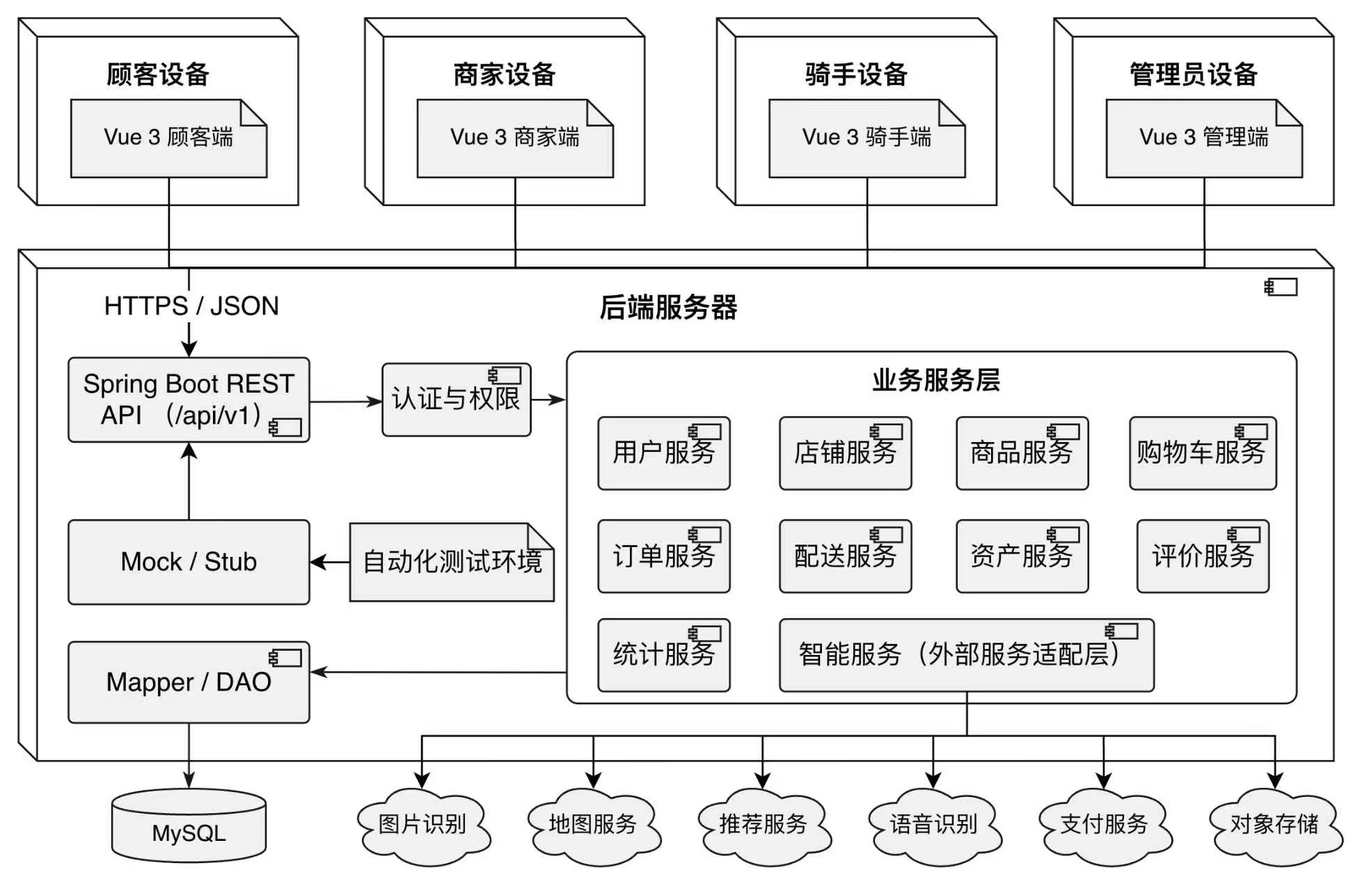
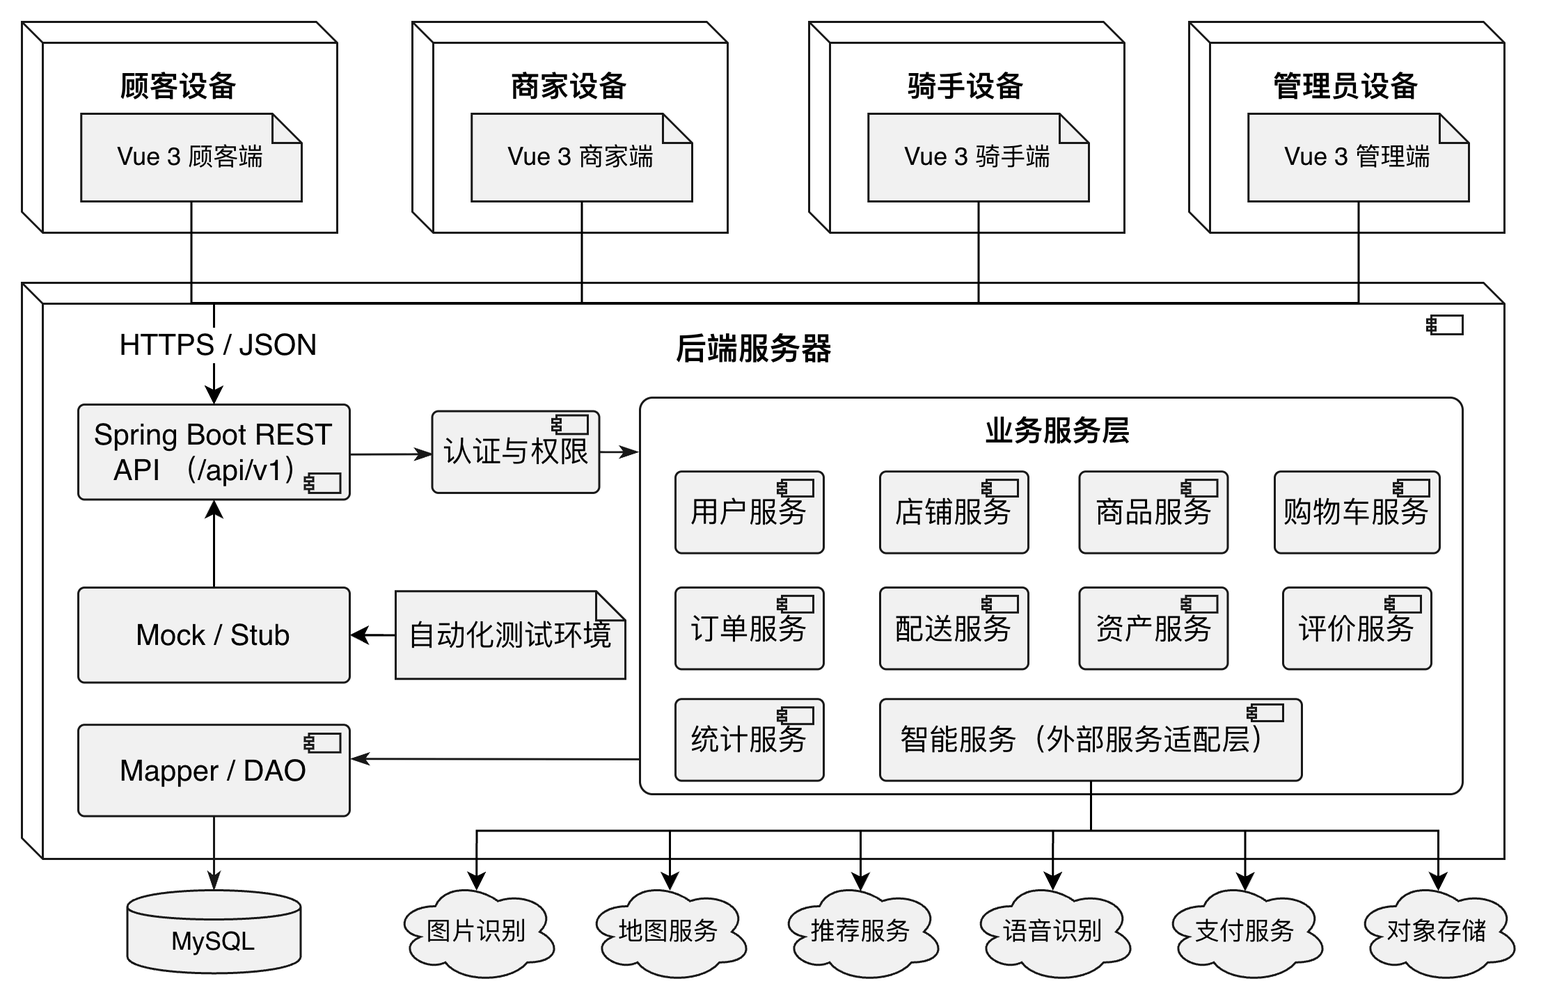
修改srs2.0主要是针对一些图片进行优化，在zzy的基础上修整了一些排版

diff --git a/source/body/srs/functions/customer.tex b/source/body/srs/functions/customer.tex
@@ -28,7 +28,7 @@
 \begin{srsusecase}{4.3}{管理购物车}{顾客}{高}{uc:cart}
 \ucrow{描述}{顾客维护当前店铺的待结算商品}
 \ucrow{前置条件}{顾客已登录且商品当前可售}
-\ucrow{基本流程}{1）将商品加入购物车\newline 2）修改商品数量或删除商品\newline 3）选择待结算商品\newline 4）查看估算小计\newline 5）需要时清空购物车}
+\ucrow{基本流程}{1）将商品加入购物车，修改商品数量或删除商品\newline 2）选择待结算商品\newline 3）查看估算小计\newline 4）需要时清空购物车}
 \ucrow{结束状况}{购物车保存最新商品和数量}
 \ucrow{可选流程}{切换店铺加购时先确认是否清空原店铺购物车}
 \ucrow{异常流程}{商品下架、售罄、超过库存或限购数量时拒绝加购或修改}
@@ -53,7 +53,7 @@
 \ucrow{基本流程}{1）进入订单支付页面\newline 2）选择模拟支付或钱包支付\newline 3）系统校验订单金额、支付状态和余额\newline 4）记录支付结果并更新订单状态}
 \ucrow{结束状况}{订单进入待商家接单状态}
 \ucrow{可选流程}{钱包支付时扣减钱包余额并记录流水}
-\ucrow{异常流程}{余额不足、重复支付、订单已取消或订单状态不允许支付时拒绝请求}
+\ucrow{异常流程}{余额不足、重复支付、订单已取消或订单状态禁付时拒绝请求}
 \ucrow{备注}{重复支付请求不得产生重复扣款}
 \end{srsusecase}
 
@@ -82,17 +82,17 @@
 \begin{srsusecase}{6.1}{提交订单评价}{顾客}{中}{uc:review-consumption}
 \ucrow{描述}{顾客对已完成的本人订单提交评价}
 \ucrow{前置条件}{订单属于当前顾客、状态为已完成且尚未评价}
-\ucrow{基本流程}{1）进入订单评价入口\newline 2）填写 1--5 分评分和评价文字\newline 3）需要时上传评价图片\newline 4）提交评价}
+\ucrow{基本流程}{1）进入订单评价入口\newline 2）填写 1--5 分评分和评价文字，需要时上传评价图片\newline 3）提交评价}
 \ucrow{结束状况}{订单生成一条有效顾客评价}
 \ucrow{可选流程}{最多上传 3 张符合要求的图片}
-\ucrow{异常流程}{订单未完成、非本人订单、重复评价、评分越界或图片不符合要求时拒绝提交}
+\ucrow{异常流程}{订单未完成、非本人订单、评价不符合要求时拒绝提交}
 \ucrow{备注}{每个订单最多一条有效顾客评价}
 \end{srsusecase}
 
 \begin{srsusecase}{6.2}{查看消费分析}{顾客}{中}{uc:consumption-analysis}
 \ucrow{描述}{顾客查看本人历史消费统计}
 \ucrow{前置条件}{顾客已登录}
-\ucrow{基本流程}{1）进入个人消费分析页面\newline 2）选择月份或年份\newline 3）系统统计已完成订单\newline 4）显示消费金额、订单次数、店铺和品类等结果}
+\ucrow{基本流程}{1）进入个人消费分析页面\newline 2）选择月份或年份\newline 3）系统统计订单，显示消费金额、订单次数、店铺和品类等}
 \ucrow{结束状况}{显示所选时间范围内的个人消费分析}
 \ucrow{可选流程}{可查看商家对本人历史评价的回复}
 \ucrow{异常流程}{查询条件不合法时提示重新选择}
@@ -103,10 +103,10 @@
 
 \begin{srsusecase}{7.1}{使用 AI 点餐}{顾客}{中}{uc:intelligent-personalized}
 \ucrow{描述}{顾客通过自然语言获取平台问答、订单查询和点餐建议}
-\ucrow{前置条件}{平台规则问答可直接使用，查询本人订单和确认加购时需要登录}
+\ucrow{前置条件}{平台规则问答可直接用，查询本人订单和确认加购时需要登录}
 \ucrow{基本流程}{1）顾客输入平台规则、订单状态或点餐需求\newline 2）系统识别用户意图\newline 3）规则问答读取审核知识，订单查询校验用户归属，点餐请求查询真实可售商品\newline 4）返回文本答复或推荐商品卡片\newline 5）顾客确认推荐后加入购物车}
 \ucrow{结束状况}{返回可理解答复或可继续操作的商品推荐结果}
-\ucrow{可选流程}{可使用图片识菜或语音输入，识别结果由顾客确认后再进入受控搜索}
+\ucrow{可选流程}{使用图片识菜或语音输入，识别结果由顾客确认后再进入搜索}
 \ucrow{异常流程}{AI 超时、输出无法解析、无候选商品或识别失败时提示用户并降级到普通搜索}
 \ucrow{备注}{AI 不直接支付、取消订单、修改库存或调整用户资产}
 \end{srsusecase}
@@ -118,7 +118,7 @@
 \ucrow{结束状况}{个人权益余额和流水更新完成}
 \ucrow{可选流程}{订单取消时生成反向流水恢复相应权益}
 \ucrow{异常流程}{余额不足、积分不足、优惠券过期或已使用、重复核销或并发冲突时拒绝操作}
-\ucrow{备注}{每单最多使用一张优惠券，100 积分抵 1 元且不超过券后金额的 20\%}
+\ucrow{备注}{每单限用一张优惠券；100积分抵1元，折扣上限为券后金额的20\%}
 \end{srsusecase}
 
 \begin{srsusecase}{7.3}{管理个性化偏好}{顾客}{中}{uc:preference}

diff --git a/source/body/srs/02_goals_stakeholders_scope.tex b/source/body/srs/02_goals_stakeholders_scope.tex
@@ -6,7 +6,7 @@
 
 \begin{enumerate}
   \item 顾客、商家、骑手和管理员能够完成职责清晰的外卖交易与履约闭环。
-  \item 订单和配送任务分别按合法状态流转，关键业务动作可追踪、可复现、可测试。
+  \item 订单和配送任务分别按合法状态流转，关键业务动作可追踪、复现、测试。
   \item AI 客服能够以受控方式查询平台知识、本人订单和真实菜单，并辅助顾客完成智能点餐。
   \item 库存、订单、钱包、积分、优惠券和骑手接单等关键写操作具备权限校验、幂等保护和并发保护。
   \item 需求、接口、数据对象、自动化测试和验收结果之间具有稳定的编号和追踪关系。
@@ -14,15 +14,13 @@
 
 \subsection{涉众分析}
 
-\begin{longtable}{|L{0.14\linewidth}|L{0.18\linewidth}|L{0.28\linewidth}|L{0.30\linewidth}|}
+\begin{longtable}{|L{0.10\linewidth}|L{0.18\linewidth}|L{0.16\linewidth}|L{0.47\linewidth}|}
 \caption{涉众分析}\label{tab:stakeholders}\\ \hline
 \textbf{涉众} & \textbf{代表人物} & \textbf{主要目标} & \textbf{待解决的问题/对系统的期望} \\ \hline
-顾客 & 校园及周边消费者 & 高效、透明地完成点餐 & 快速查找合适菜品，理解优惠与应付金额，查看履约进度，处理取消、收货和评价。 \\ \hline
+顾客 & 周边消费者 & 高效、透明地完成点餐 & 查找合适菜品，了解优惠与应付金额，查看进度，处理取消、收货和评价。 \\ \hline
 商家 & 店铺经营者 & 维护店铺并稳定履约 & 控制营业状态、商品和库存，按状态处理订单，与骑手完成取餐交接。 \\ \hline
-骑手 & 配送人员 & 安全承接并完成配送 & 查看可接任务，避免重复抢单，依次完成到店、取餐、配送、送达和异常上报。 \\ \hline
+骑手 & 配送人员 & 安全承接并完成配送 & 查看可接任务，避免重复抢单，完成到店、取餐、配送、送达和异常上报。 \\ \hline
 管理员 & 平台运营人员 & 保证准入与运行秩序 & 审核商家、店铺和骑手，处理账号、评价和配送异常，查看平台统计。 \\ \hline
-验收人员 & 教师及交叉验收小组 & 根据稳定基线复现结果 & 在统一环境和初始数据下，按需求编号验证正常、异常、权限和边界场景。 \\ \hline
-项目组 & 开发与测试成员 & 持续交付可维护成果 & 明确需求边界、职责分工、验收标准和变更影响，避免实现与文档脱节。 \\ \hline
 \end{longtable}
 
 \subsection{范围}
@@ -31,7 +29,7 @@
 
 \srsfigure{figures/srs/01-system-context.png}{系统上下文图}{非 UML：系统上下文图}{fig:system-context}
 
-\begin{longtable}{|L{0.16\linewidth}|L{0.20\linewidth}|L{0.54\linewidth}|}
+\begin{longtable}{|L{0.09\linewidth}|L{0.21\linewidth}|L{0.60\linewidth}|}
 \caption{需求优先级与功能范围}\label{tab:scope}\\ \hline
 \textbf{级别} & \textbf{范围定位} & \textbf{纳入的功能} \\ \hline
 P0 & 核心基线，必须实现 & 账号、地址、店铺商品、购物车、订单、模拟支付、取消与收货；商家履约；骑手申请、接单与配送；管理员准入审核和账号治理。 \\ \hline
@@ -41,13 +39,13 @@ P2 & 可选增强，不作为基线失败条件 & 图片识菜、语音输入、
 
 \subsubsection{角色权限边界}
 
-\begin{longtable}{|L{0.14\linewidth}|L{0.28\linewidth}|L{0.28\linewidth}|L{0.20\linewidth}|}
+\begin{longtable}{|L{0.12\linewidth}|L{0.24\linewidth}|L{0.28\linewidth}|L{0.26\linewidth}|}
 \caption{角色权限边界}\label{tab:role-permission}\\ \hline
 \textbf{角色} & \textbf{可读数据} & \textbf{可写数据} & \textbf{禁止行为} \\ \hline
 顾客 & 公开店铺商品、本人订单与资产 & 本人资料、地址、购物车、订单和评价 & 访问他人订单、直接改价或跳过订单状态 \\ \hline
 商家 & 本人店铺、商品、订单和统计 & 本人店铺资源、合法的商家履约状态 & 操作非本店数据、修改顾客原评价 \\ \hline
 骑手 & 可接任务和本人活动/历史任务 & 本人任务的到店、取餐、送达与异常信息 & 查看非必要顾客资料、操作他人任务 \\ \hline
-管理员 & 审核材料、平台治理数据和汇总统计 & 审核、账号状态、评价展示状态和异常处理结果 & 直接覆盖资产流水或删除审计记录 \\ \hline
+管理员 & 审核材料、平台治理数据和汇总统计 & 审核、账号状态、评价状态和异常处理结果 & 直接覆盖资产流水或删除审计记录 \\ \hline
 \end{longtable}
 
 \subsubsection{范围外事项}

diff --git a/source/body/srs/01_introduction.tex b/source/body/srs/01_introduction.tex
@@ -1,6 +1,6 @@
 \section{简介}
 
-本需求规格说明书用于说明“轻量级外卖服务平台”的需求来源、业务边界、功能行为和质量要求，并作为需求评审、系统设计、开发测试、交叉验收和版本变更的共同依据。文档面向课程教师、验收人员、项目经理、开发人员和测试人员。
+本需求规格说明书用于说明“轻量级外卖服务平台”的需求来源、业务边界、功能行为和质量要求，并作为需求评审、系统设计、开发测试、交叉验收和版本变更的依据。文档面向课程教师、验收人员、项目经理、开发人员和测试人员。
 
 \subsection{背景}
 
@@ -15,10 +15,6 @@
 配送任务 & 订单进入配送阶段后生成的独立履约记录，记录骑手、任务状态和关键时间。 \\ \hline
 活动任务 & 处于待接单、已接单、已取餐、配送中或异常待处理状态的配送任务。 \\ \hline
 资产流水 & 钱包、积分和优惠券因业务动作产生的不可直接覆盖的变更记录。 \\ \hline
-幂等 & 同一业务请求重复提交时，系统不产生重复扣款、扣库存、返还或状态跳转。 \\ \hline
-AI 工具调用 & AI 客服在用户授权与后端权限校验后，对菜单搜索、订单查询等受控接口的调用。 \\ \hline
-降级 & 外部 AI、地图或媒体服务不可用时，返回明确提示并切换到普通搜索、文本地址或手工操作。 \\ \hline
-REST & Representational State Transfer，本项目后端接口采用的资源化交互风格。 \\ \hline
 \end{longtable}
 
 \subsection{约束}
@@ -28,7 +24,7 @@ REST & Representational State Transfer，本项目后端接口采用的资源化
 \textbf{类别} & \textbf{约束内容} \\ \hline
 课程过程 & 需求、设计、编码、测试和验收材料应保持可追踪；需求变更须同步更新文档和测试。 \\ \hline
 技术环境 & Web 前端采用 Vue 3，后端采用 Spring Boot，持久化数据库采用 MySQL；前后端通过 REST 接口交互。 \\ \hline
-业务边界 & 系统只模拟支付与钱包结算，不接入真实微信、支付宝或银行卡清算；本期不实现复杂自动派单和骑手薪资结算。 \\ \hline
+业务边界 & 系统只模拟支付与钱包结算，不接入微信、支付宝或银行卡清算；本期不实现复杂自动派单和骑手薪资结算。 \\ \hline
 数据权限 & 所有私有资源均由后端依据认证身份、角色和资源归属进行校验，不信任客户端传入的用户身份。 \\ \hline
 外部服务 & AI、地图和对象存储通过后端适配接口接入；凭证仅保存在后端配置中，外部服务失败不得阻断核心交易。 \\ \hline
 验收环境 & 使用项目提供的演示账号和初始化数据；在浏览器能够访问前后端服务时，应能完成 P0/P1 基线场景。 \\ \hline
@@ -40,6 +36,6 @@ REST & Representational State Transfer，本项目后端接口采用的资源化
 \caption{参考资料}\label{tab:references}\\ \hline
 \textbf{资料名称} & \textbf{提供方/作者} & \textbf{用途} \\ \hline
 《软件工程综合实践》课程资料与项目任务书 & 课程组 & 确定实践范围、过程要求和验收要求。 \\ \hline
-《UML 大战需求分析》附录 1 & 张传波 & 作为本需求规格说明书的章节结构与用例描述参考。 \\ \hline
+《UML 大战需求分析》& 张传波 & 作为本需求规格说明书的章节结构与用例描述参考。 \\ \hline
 轻量级外卖服务平台公开仓库 & 项目组 & 保存对外源代码、需求、接口、测试和验收材料。 \\ \hline
 \end{longtable}

diff --git a/source/body/srs/05_functional_requirements.tex b/source/body/srs/05_functional_requirements.tex
@@ -4,16 +4,15 @@
 
 系统执行者按业务职责划分为用户、顾客、商家、骑手和管理员，用户表示使用平台公共能力的基础角色，顾客、商家、骑手和管理员是在用户基础上承担不同业务职责的具体角色，同一个自然人在通过相应审核后可以拥有多个业务角色，但每次业务操作仍按照当前角色及资源归属进行权限校验
 
-AI、地图和对象存储等外部能力作为系统依赖，在相关用例的基本流程、可选流程和异常流程中说明，不再与五类业务执行者并列组织角色章节
 
-\begin{longtable}{|L{0.16\linewidth}|L{0.26\linewidth}|L{0.48\linewidth}|}
+\begin{longtable}{|L{0.10\linewidth}|L{0.15\linewidth}|L{0.74\linewidth}|}
 \caption{系统执行者说明}\label{tab:actors}\\ \hline
 \textbf{执行者} & \textbf{执行者关系} & \textbf{主要业务职责} \\ \hline
-用户 & 基础执行者 & 注册和登录平台，维护个人资料与地址，申请业务角色并查看消息通知 \\ \hline
-顾客 & 用户的特化角色 & 选购店铺商品，管理订单、评价与消费，使用智能点餐、个人权益和个性化服务 \\ \hline
-商家 & 用户的特化角色 & 维护店铺、商品及库存，处理本店订单，回复评价并查看经营数据 \\ \hline
-骑手 & 用户的特化角色 & 管理配送工作状态，接取并完成配送任务，处理配送过程中的异常与导航需求 \\ \hline
-管理员 & 用户的特化角色 & 完成准入审核、平台治理、配送异常处置和平台数据查看 \\ \hline
+用户 & 基础执行者 & 注册和登录平台，维护个人信息，申请业务角色、查看通知 \\ \hline
+顾客 & 特化角色 & 选购商品、管理订单与评价，使用智能点餐、个性化服务 \\ \hline
+商家 & 特化角色 & 维护店铺及商品，处理订单，回复评价并查看经营数据 \\ \hline
+骑手 & 特化角色 & 管理配送状态，接取并完成任务，处理配送过程中的异常 \\ \hline
+管理员 & 特化角色 & 完成准入审核、平台治理、配送异常处置和平台数据查看 \\ \hline
 \end{longtable}
 
 \subsection{总用例}

diff --git a/source/body/srs/03_business_concept_analysis.tex b/source/body/srs/03_business_concept_analysis.tex
@@ -8,7 +8,7 @@
 
 \subsection{业务概念一览}
 
-\begin{longtable}{|L{0.20\linewidth}|L{0.25\linewidth}|L{0.45\linewidth}|}
+\begin{longtable}{|L{0.22\linewidth}|L{0.30\linewidth}|L{0.40\linewidth}|}
 \caption{业务概念一览}\label{tab:business-concepts}\\ \hline
 \textbf{概念组} & \textbf{主要业务概念} & \textbf{概念之间的关系} \\ \hline
 账号与经营主体 & 用户、角色、顾客资料、商家资料、骑手资料、店铺 & 用户可被授予一个或多个角色；商家经营店铺；骑手通过审核后承接配送任务。 \\ \hline
@@ -19,13 +19,13 @@
 
 \subsection{交易与履约业务概念}
 
-\begin{longtable}{|L{0.19\linewidth}|L{0.25\linewidth}|L{0.46\linewidth}|}
+\begin{longtable}{|L{0.19\linewidth}|L{0.24\linewidth}|L{0.48\linewidth}|}
 \caption{交易与履约核心业务对象}\label{tab:domain-objects}\\ \hline
 \textbf{对象} & \textbf{责任} & \textbf{关键约束} \\ \hline
 User / Role & 保存账号、个人资料和角色 & 同一用户可具有多个角色；禁用账号不得登录。 \\ \hline
 Store / Product & 表示店铺、分类、商品和库存 & 未通过审核或休息店铺不可接收新订单；下架或库存为零的商品不可购买。 \\ \hline
 Cart / CartItem & 保存顾客当前待结算商品 & 一个购物车只包含同一店铺商品；金额仅供展示，提交订单时重新计算。 \\ \hline
-Order / OrderItem & 保存交易状态、金额和商品/地址快照 & 金额由后端计算；历史订单不因商品或地址修改而改变。 \\ \hline
+Order / OrderItem & 保存交易状态、金额、商品/地址快照 & 金额由后端计算；历史订单不因商品或地址修改而改变。 \\ \hline
 Payment\-Record & 记录模拟支付或钱包支付结果 & 支付状态与订单状态分离；同一订单仅有一次有效支付成功。 \\ \hline
 DeliveryTask & 保存履约状态、骑手和关键时间 & 一个订单可有多条历史配送尝试，但同一时刻最多一条活动任务。 \\ \hline
 Review & 保存评分、文字、图片和商家回复 & 仅已完成的本人订单可评价；每个订单最多一条有效顾客评价。 \\ \hline

diff --git a/source/body/srs/04_business_process_analysis.tex b/source/body/srs/04_business_process_analysis.tex
@@ -16,7 +16,7 @@
 
 \srsfigure{figures/srs/05-order-state.png}{订单状态机图}{UML 状态机图}{fig:order-state}
 
-\begin{longtable}{|L{0.16\linewidth}|L{0.18\linewidth}|L{0.18\linewidth}|L{0.38\linewidth}|}
+\begin{longtable}{|L{0.15\linewidth}|L{0.25\linewidth}|L{0.15\linewidth}|L{0.40\linewidth}|}
 \caption{订单状态转换}\label{tab:order-state}\\ \hline
 \textbf{当前状态} & \textbf{事件/执行者} & \textbf{目标状态} & \textbf{条件与副作用} \\ \hline
 无 & 提交订单/顾客 & 待支付 & 校验店铺、商品、地址和优惠；生成快照并预占库存与优惠券。 \\ \hline
@@ -35,7 +35,7 @@
 
 \srsfigure{figures/srs/06-delivery-state.png}{配送任务状态机图}{UML 状态机图}{fig:delivery-state}
 
-\begin{longtable}{|L{0.18\linewidth}|L{0.18\linewidth}|L{0.20\linewidth}|L{0.34\linewidth}|}
+\begin{longtable}{|L{0.16\linewidth}|L{0.21\linewidth}|L{0.20\linewidth}|L{0.33\linewidth}|}
 \caption{配送任务状态转换}\label{tab:delivery-state}\\ \hline
 \textbf{当前状态} & \textbf{操作} & \textbf{目标状态} & \textbf{约束} \\ \hline
 待接单 & 骑手接单 & 已接单 & 骑手已审核、在线且无超出上限的活动任务；并发时仅一人成功。 \\ \hline
@@ -70,4 +70,4 @@
 
 \srsfigure{figures/srs/08-ai-assistant-sequence.png}{AI 客服与智能点餐顺序图}{UML 顺序图}{fig:ai-assistant}
 
-AI 客服可回答平台规则，也可在用户登录且后端通过资源归属校验后查询当前用户的订单状态。智能点餐根据预算、口味、忌口和当前可售菜单返回结构化候选商品；候选结果必须经商品服务二次校验，并由顾客明确确认后才能加入购物车。AI 不得直接支付、取消订单、修改库存或调整用户资产。
+AI客服可回答平台规则，也可在用户登录后查询当前用户的订单状态。智能点餐根据顾客偏好和当前可售菜单返回候选商品；候选结果经二次校验，并由顾客确认后加入购物车。AI不得支付、取消订单、修改库存或调整用户资产。

diff --git a/source/body/srs/07_appendices.tex b/source/body/srs/07_appendices.tex
@@ -4,20 +4,20 @@
 
 \subsection{基线业务配置}
 
-\begin{longtable}{|L{0.28\linewidth}|L{0.20\linewidth}|L{0.42\linewidth}|}
+\begin{longtable}{|L{0.21\linewidth}|L{0.24\linewidth}|L{0.50\linewidth}|}
 \caption{基线业务配置}\label{tab:baseline-config}\\ \hline
 \textbf{配置项} & \textbf{基线值} & \textbf{说明} \\ \hline
 手机号 & 11 位数字 & 作为登录账号时全局唯一 \\ \hline
 密码长度 & 8--32 个字符 & 至少包含字母和数字，只保存安全哈希 \\ \hline
 待支付超时 & 15 分钟 & 超时后取消并释放预占库存/优惠券 \\ \hline
 送达后自动完成 & 24 小时 & 顾客未主动确认时由系统完成 \\ \hline
-顾客自助取消 & 待支付、待商家接单 & 商家接单进入制作中后不提供自助取消 \\ \hline
+顾客自助取消 & 待支付/商家接单 & 商家接单进入制作中后不提供自助取消 \\ \hline
 评价评分/文字/图片 & 1--5 分；0--500 字；0--3 张 & 图片仅支持 JPG/PNG/WebP，单张最大 5 MB \\ \hline
-会员 & 30 天；95\% 折扣 & 只对商品小计打折，不对配送费打折 \\ \hline
-优惠券 & 每单最多 1 张 & 必须满足有效期、店铺/平台范围和最低金额 \\ \hline
+会员 & 30 天；九五折 & 只对商品小计打折，不对配送费打折 \\ \hline
+优惠券 & 每单最多 1 张 & 满足有效期、店铺/平台范围和最低金额 \\ \hline
 积分抵扣 & 100 积分 = 1 元；最多 20\% & 上限基于会员和优惠券计算后金额 \\ \hline
-积分发放 & 实付每满 1 元发 1 分 & 仅已完成订单发放，重复确认不重复发放 \\ \hline
-分页 & 默认 20，最大 100 & 页码从 1 开始 \\ \hline
+积分发放 & 实付满1元发1分 & 仅已完成订单发放，重复确认不予补发 \\ \hline
+分页 & 默认20，最大100 & 页码从 1 开始 \\ \hline
 AI 超时 & 10 秒 & 超时返回降级结果，不自动修改购物车 \\ \hline
 \end{longtable}
 

diff --git a/source/body/srs/functions/merchant.tex b/source/body/srs/functions/merchant.tex
@@ -1,4 +1,4 @@
-\clearpage
+
 \subsection{商家用例}
 
 \srsfigurelarge{figures/srs/12-merchant-use-case.png}{商家用例图}{UML 用例图}{fig:merchant-use-case}
@@ -12,7 +12,7 @@
 \ucrow{结束状况}{店铺资料或营业状态更新完成}
 \ucrow{可选流程}{审核未通过时根据原因修改资料后重新提交}
 \ucrow{异常流程}{未审核商家、非店铺所有者、店铺未通过审核或营业状态非法时拒绝操作}
-\ucrow{备注}{商家角色审核和店铺审核相互独立，非营业店铺不能创建新订单}
+\ucrow{备注}{商家审核和店铺审核相互独立，非营业店铺不能创建新订单}
 \end{srsusecase}
 
 \begin{srsusecase}{8.2}{管理商品分类}{商家}{高}{uc:category-manage}

diff --git a/source/body/srs/functions/other.tex b/source/body/srs/functions/other.tex
@@ -2,7 +2,7 @@
 
 除角色用例外，系统还应满足以下跨角色功能性需求
 
-\begin{longtable}{|L{0.16\linewidth}|L{0.20\linewidth}|L{0.54\linewidth}|}
+\begin{longtable}{|L{0.16\linewidth}|L{0.16\linewidth}|L{0.58\linewidth}|}
 \caption{其他功能性需求}\label{tab:other-functional}\\ \hline
 \textbf{编号} & \textbf{名称} & \textbf{需求说明} \\ \hline
 FR-OTH-01 & 超时任务 & 待支付订单超过 15 分钟后自动取消并释放预占资源；已送达订单超过 24 小时后自动完成；重复执行不得产生重复副作用 \\ \hline
